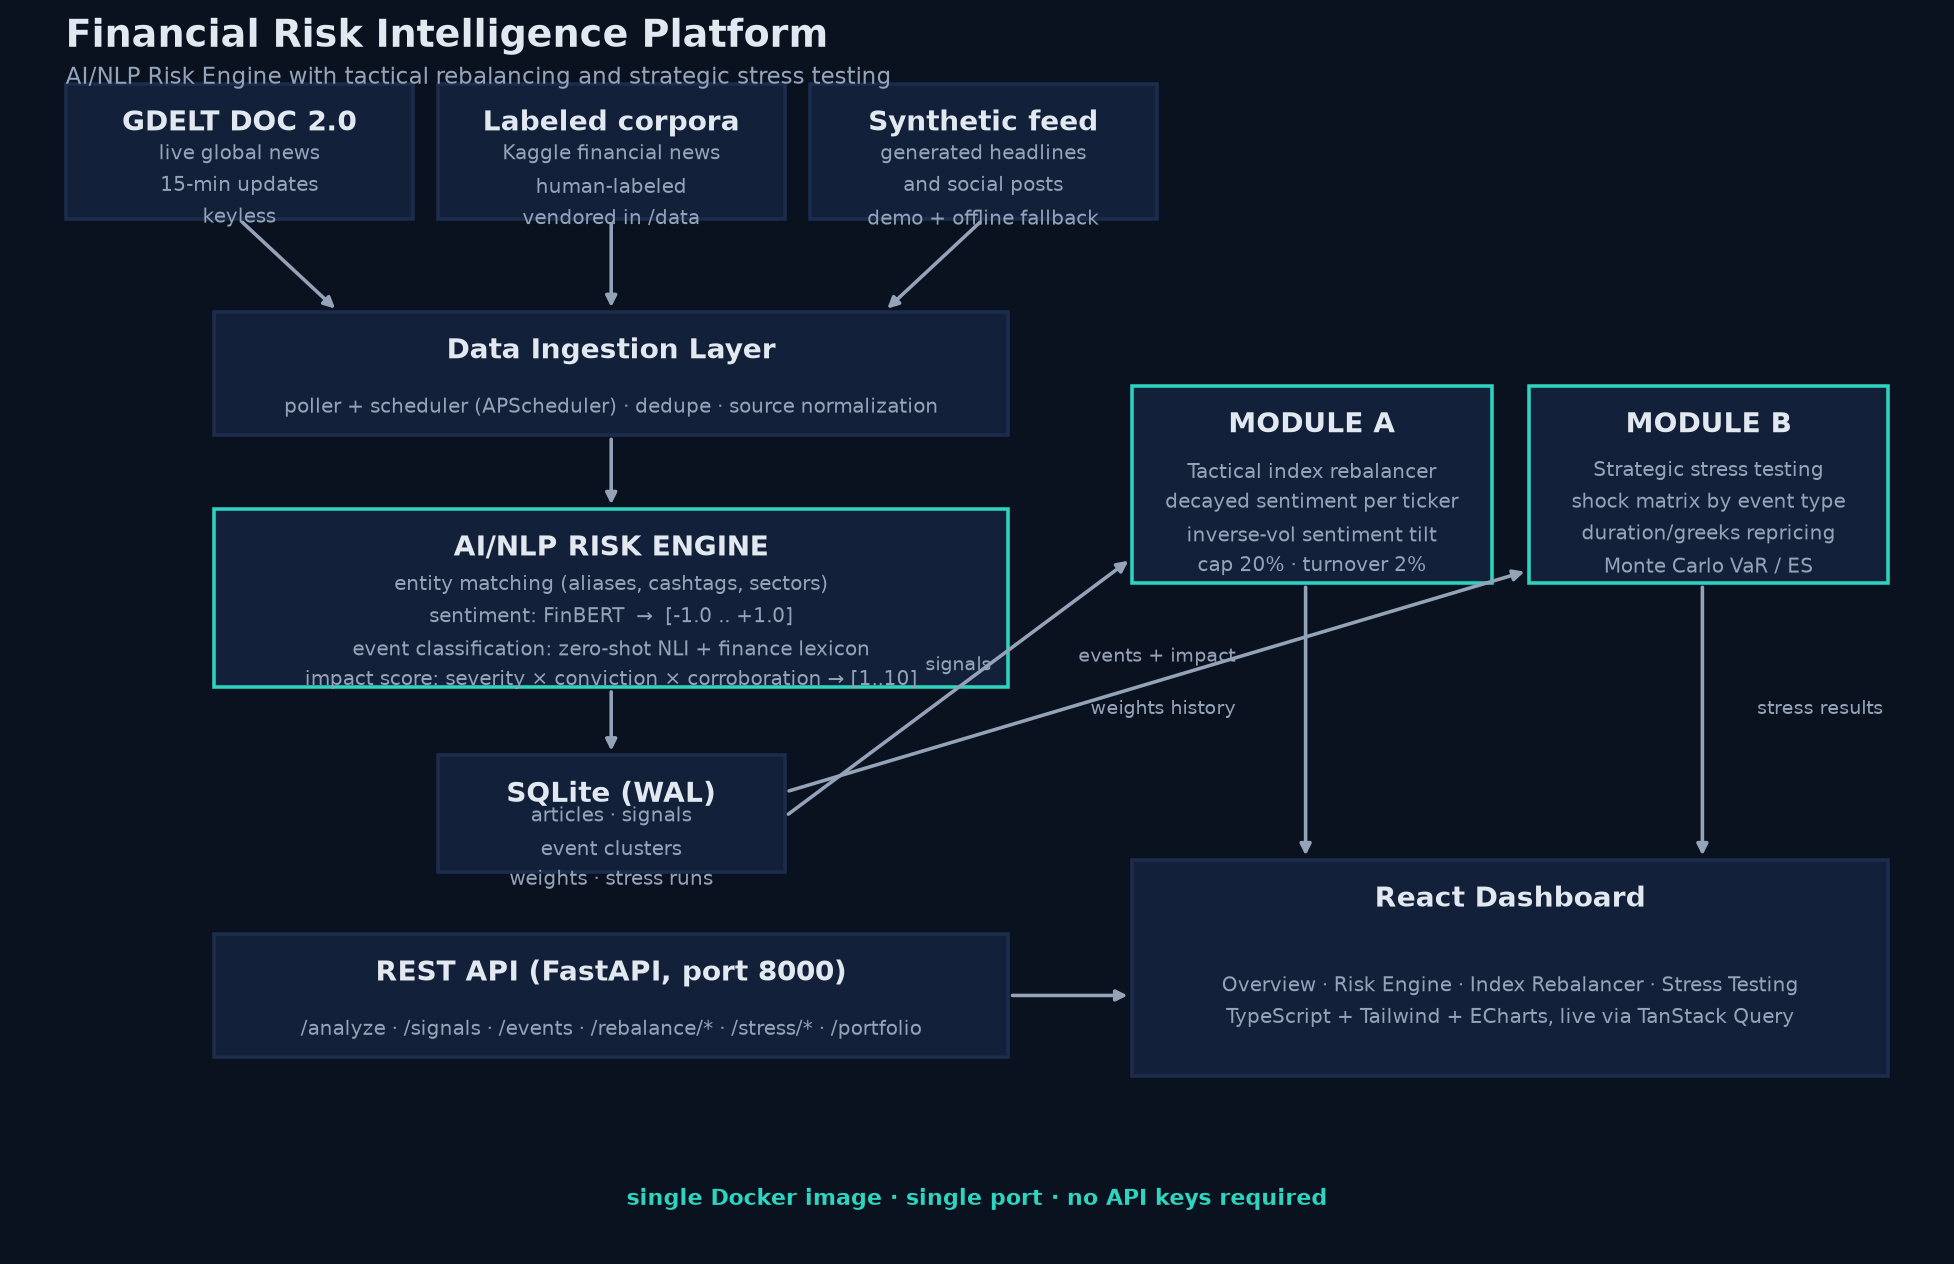
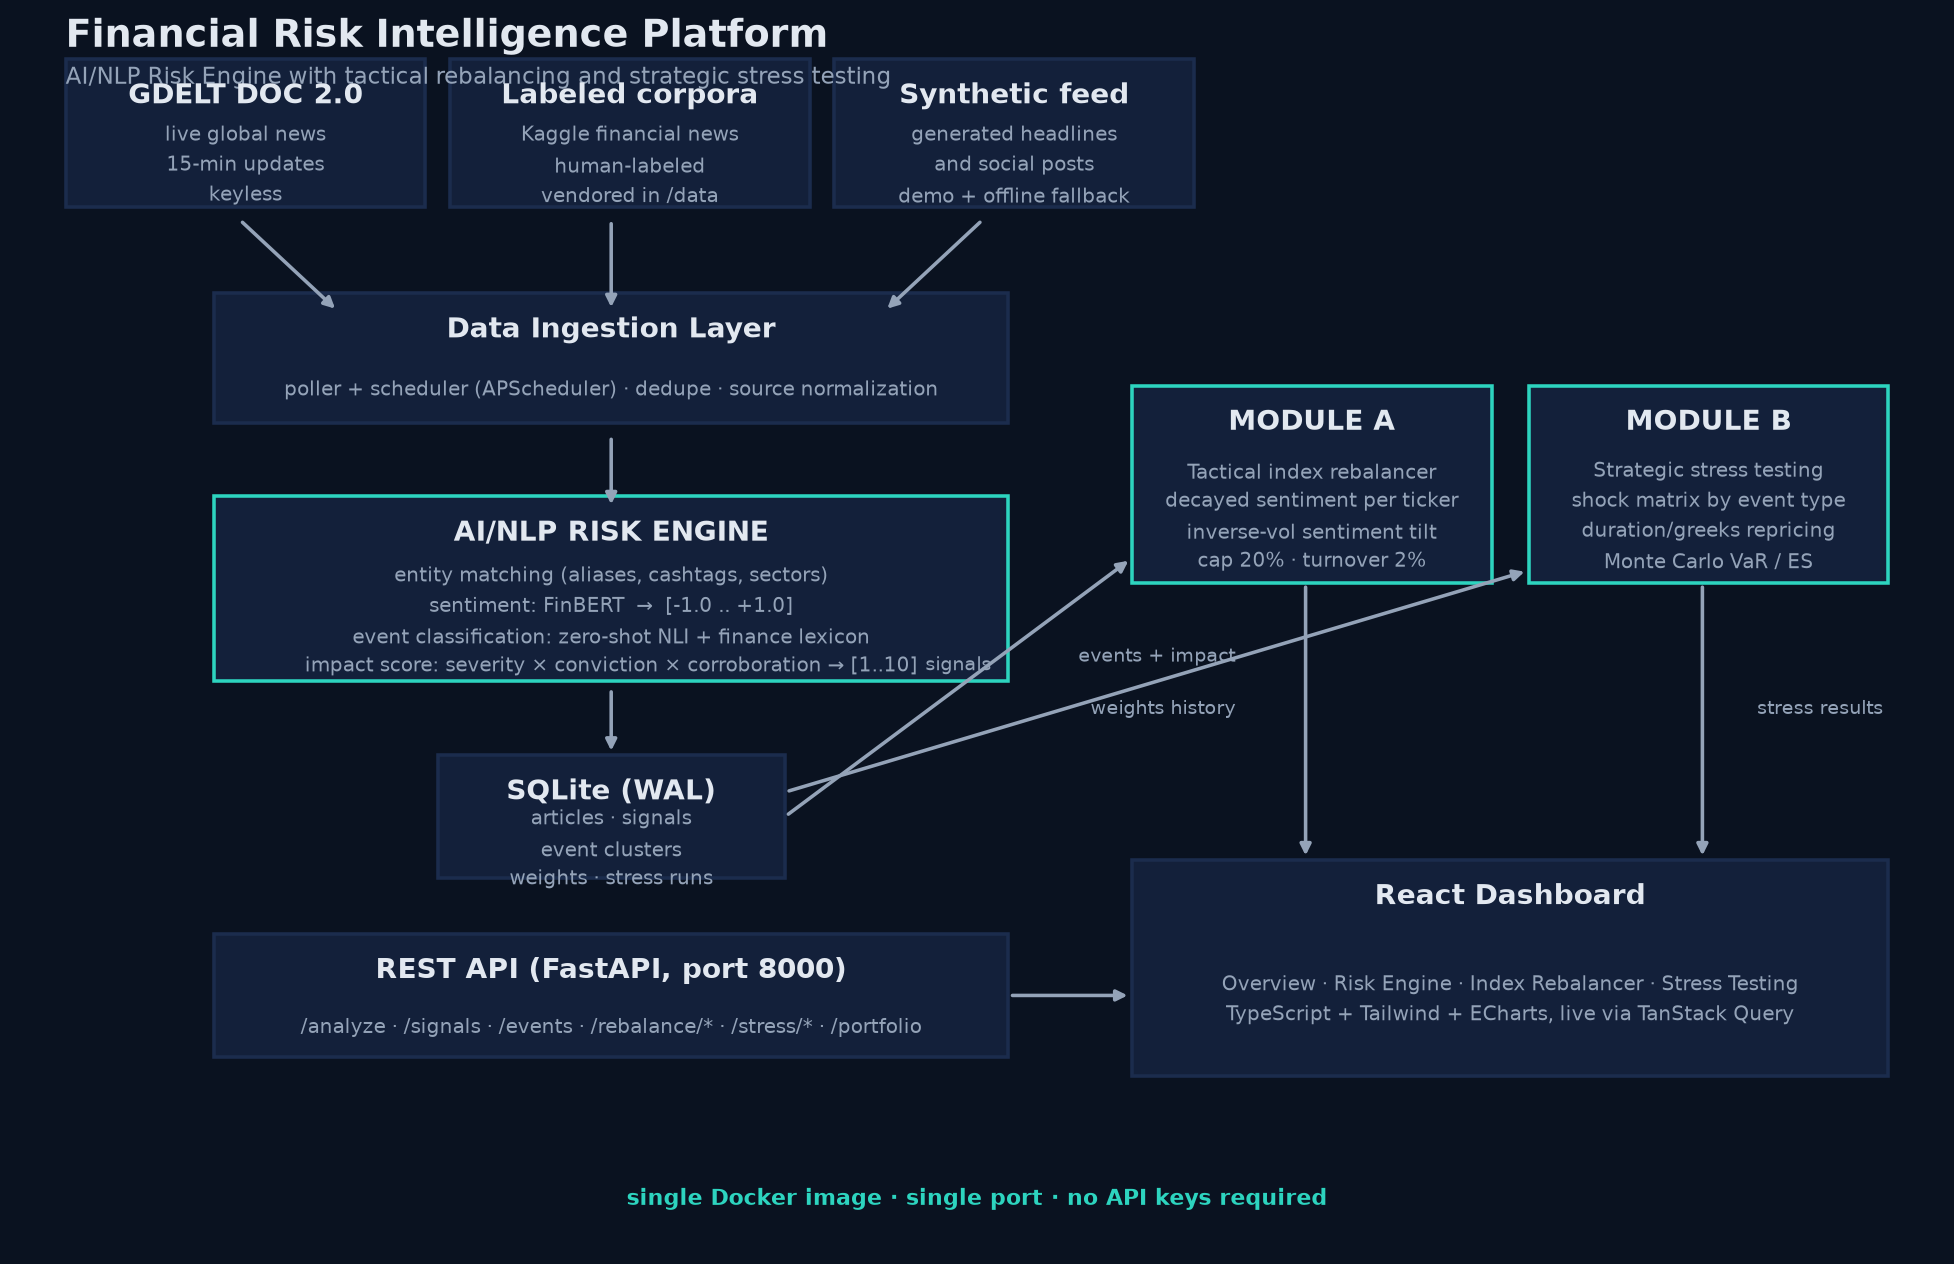
Architecture diagram layout polish; Kaggle kernel v2 with dataset path glob

diff --git a/kaggle/finbert_finetune_kernel.py b/kaggle/finbert_finetune_kernel.py
@@ -3,6 +3,7 @@
 # Push with:     kaggle kernels push -p kaggle/
 # Output:        /kaggle/working/finbert-ft/ (model) + metrics.json
 
+import glob
 import json
 import random
 
@@ -19,26 +20,22 @@ BASE = "ProsusAI/finbert"
 LABEL_MAP = {"negative": 0, "neutral": 1, "positive": 2}
 ID2LABEL = {v: k for k, v in LABEL_MAP.items()}
 
-INPUT_PATHS = [
-    "/kaggle/input/sentiment-analysis-for-financial-news/all-data.csv",
-]
-
 
 def load_rows():
     import csv
 
-    for path in INPUT_PATHS:
-        try:
-            with open(path, encoding="latin-1") as f:
-                rows = []
-                for line in f:
-                    parts = line.strip().split(",", 1)
-                    if len(parts) == 2 and parts[0].strip().lower() in LABEL_MAP:
-                        rows.append({"text": parts[1].strip().strip('"'), "label": parts[0].strip().lower()})
-                print(f"loaded {len(rows)} rows from {path}")
+    candidates = glob.glob("/kaggle/input/**/all-data.csv", recursive=True)
+    print("input candidates:", candidates)
+    for path in candidates:
+        with open(path, encoding="latin-1") as f:
+            rows = []
+            for line in f:
+                parts = line.strip().split(",", 1)
+                if len(parts) == 2 and parts[0].strip().lower() in LABEL_MAP:
+                    rows.append({"text": parts[1].strip().strip('"'), "label": parts[0].strip().lower()})
+            print(f"loaded {len(rows)} rows from {path}")
+            if rows:
                 return rows
-        except FileNotFoundError:
-            continue
     raise SystemExit("dataset not found")
 
 

diff --git a/src/scripts/make_architecture.py b/src/scripts/make_architecture.py
@@ -21,12 +21,12 @@ W, H = 15.5, 10.0
 
 BOXES: dict[str, tuple[float, float, float, float]] = {
     # (x, y, w, h) in axes coords
-    "src1": (0.4, 8.35, 2.8, 1.1),
-    "src2": (3.4, 8.35, 2.8, 1.1),
-    "src3": (6.4, 8.35, 2.8, 1.1),
-    "ingest": (1.6, 6.6, 6.4, 1.0),
-    "engine": (1.6, 4.55, 6.4, 1.45),
-    "db": (3.4, 3.05, 2.8, 0.95),
+    "src1": (0.4, 8.45, 2.9, 1.2),
+    "src2": (3.5, 8.45, 2.9, 1.2),
+    "src3": (6.6, 8.45, 2.9, 1.2),
+    "ingest": (1.6, 6.7, 6.4, 1.05),
+    "engine": (1.6, 4.6, 6.4, 1.5),
+    "db": (3.4, 3.0, 2.8, 1.0),
     "modA": (9.0, 5.4, 2.9, 1.6),
     "modB": (12.2, 5.4, 2.9, 1.6),
     "api": (1.6, 1.55, 6.4, 1.0),
@@ -38,11 +38,11 @@ def box(ax, key, title, lines, edge=EDGE):
     x, y, w, h = BOXES[key]
     rect = plt.Rectangle((x, y), w, h, facecolor=BOX, edgecolor=edge, linewidth=1.6)
     ax.add_patch(rect)
-    ax.text(x + w / 2, y + h - 0.32, title, ha="center", va="center",
+    ax.text(x + w / 2, y + h - 0.30, title, ha="center", va="center",
             fontsize=12.5, fontweight="bold", color=TEXT)
     body = "\n".join(lines)
-    ax.text(x + w / 2, y + (h - 0.55) / 2, body, ha="center", va="center",
-            fontsize=9.2, color=SUB, linespacing=1.55)
+    ax.text(x + w / 2, y + (h - 0.52) / 2, body, ha="center", va="center",
+            fontsize=9.0, color=SUB, linespacing=1.5)
 
 
 def arrow(ax, x1, y1, x2, y2, color=SUB, label=None, lx=0, ly=0):
